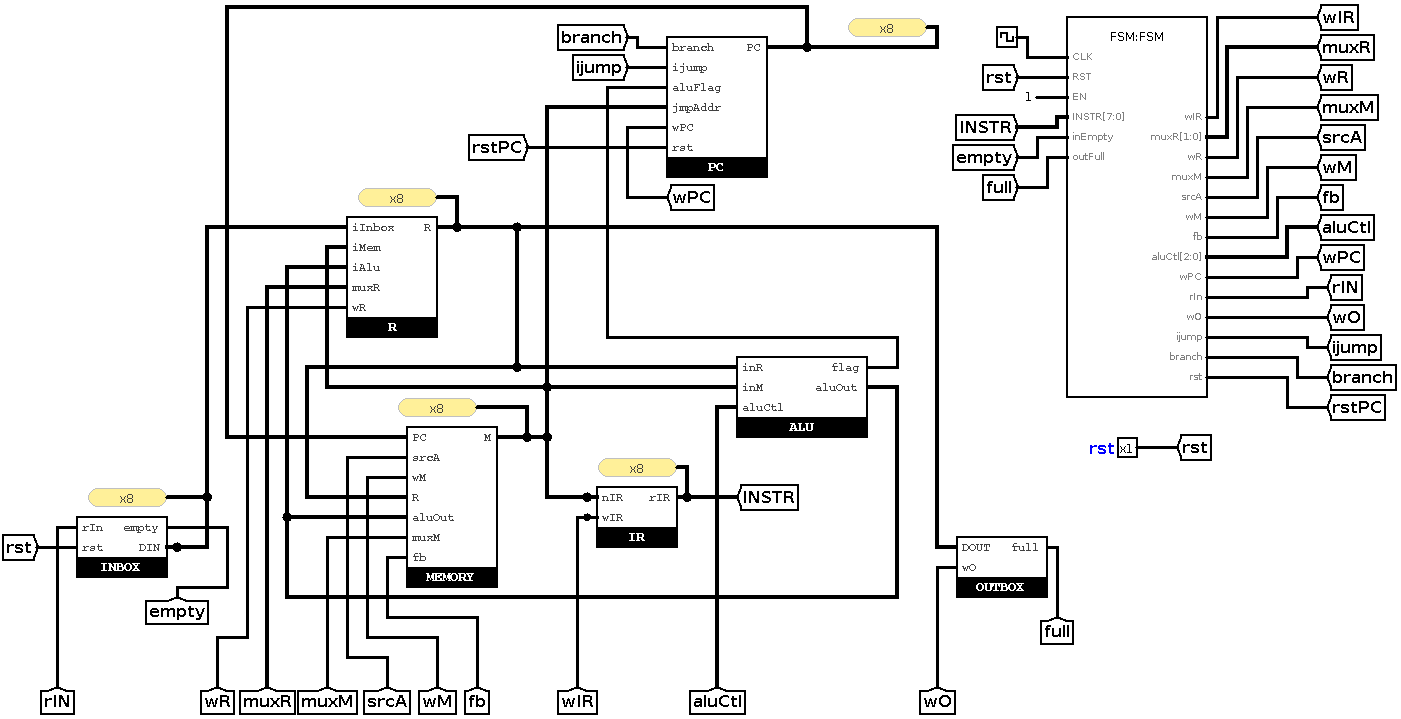
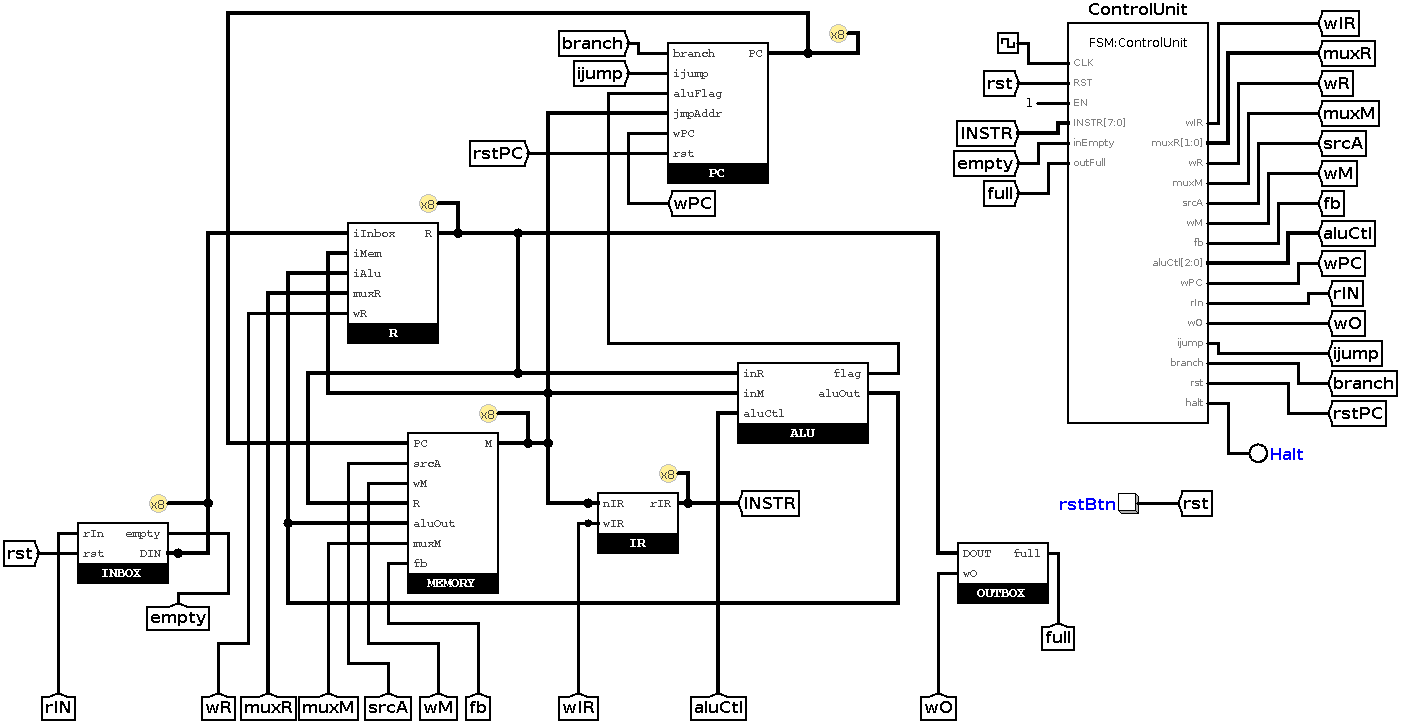
Add top module to readme

diff --git a/README.md b/README.md
@@ -5,6 +5,7 @@
 - [CPU Elements](#cpu-elements)
 - [Instruction set](#instruction-set)
 - [Microarchitecture](#microarchitecture)
+    - [Top module](#top-module)
     - [Control Unit](#control-unit)
     - [Inbox](#inbox)
     - [Outbox](#outbox)
@@ -51,7 +52,11 @@ The microarchitecture is loosely inspired from MIPS architecture. The CPU is a m
 
 ![](assets/HRM-CPU-3.png)
 
-Sections below detail each module individually.
+Sections below detail each module individually:
+
+## Top module
+
+![](logisim/diagram/top.png)
 
 ## Control Unit
 
